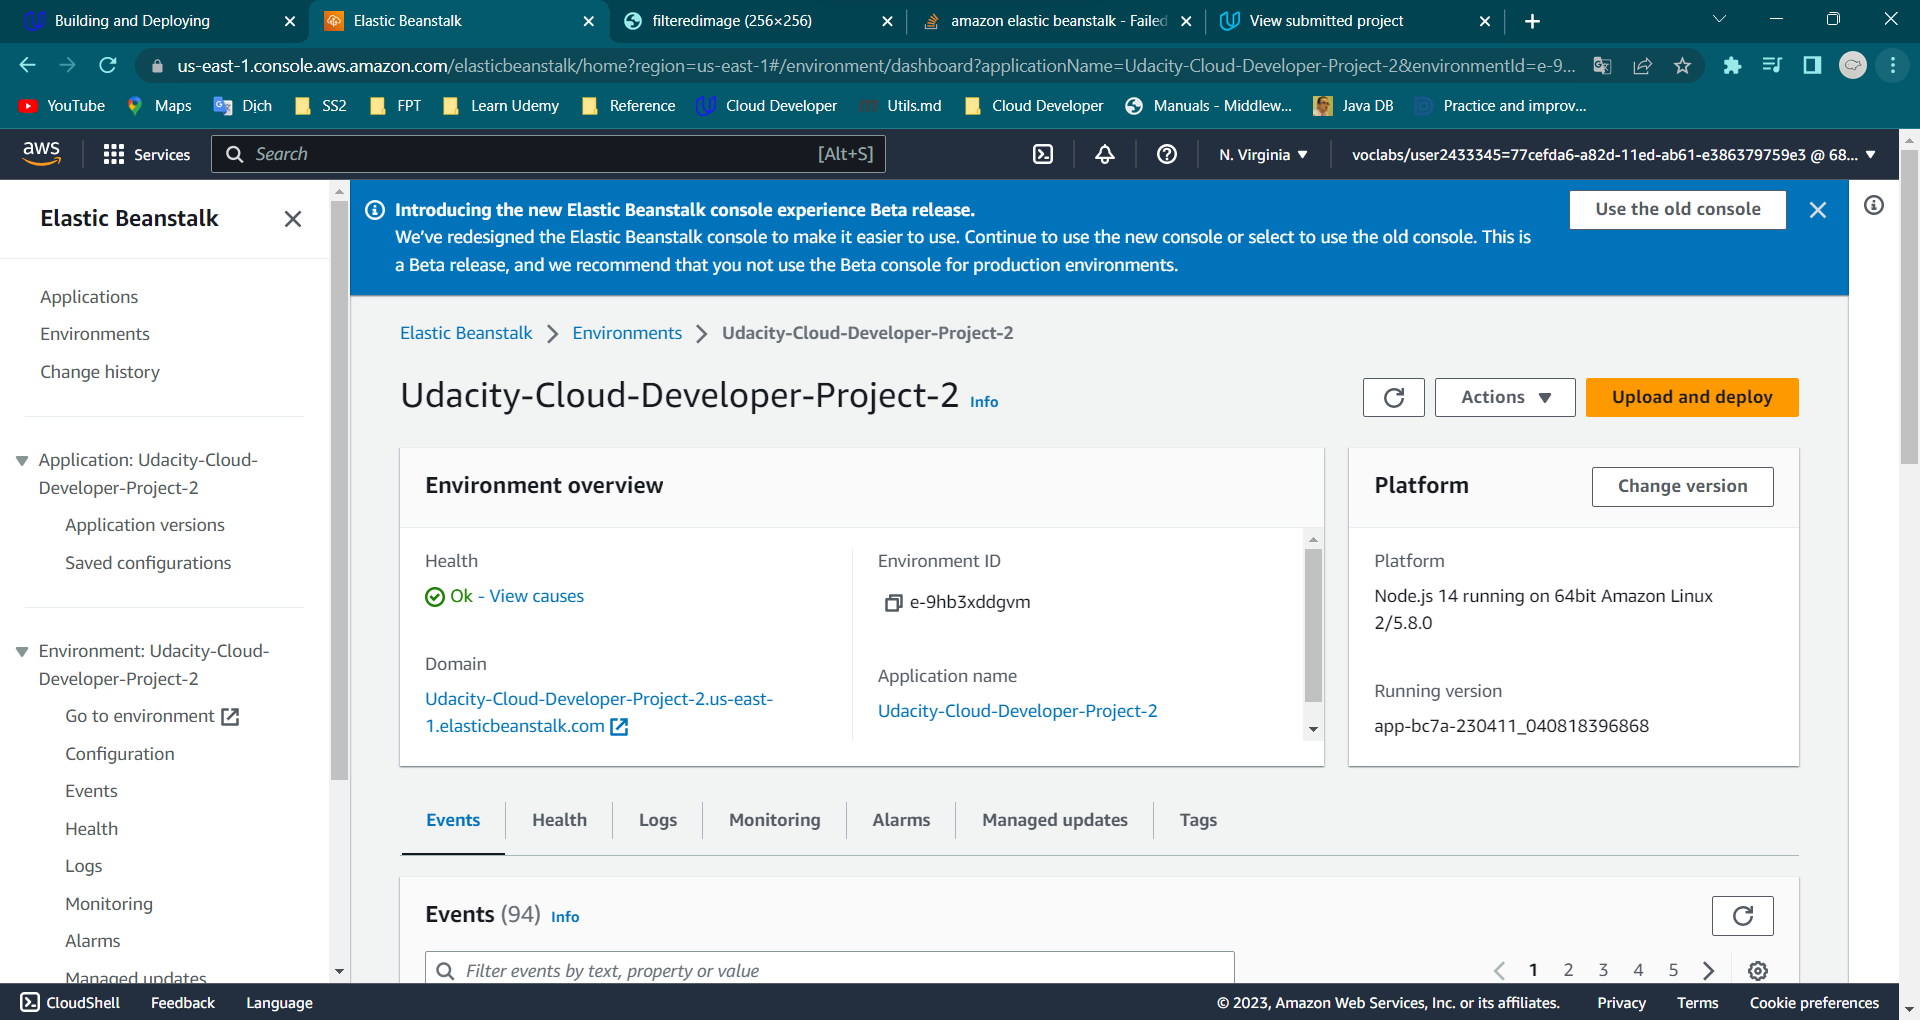
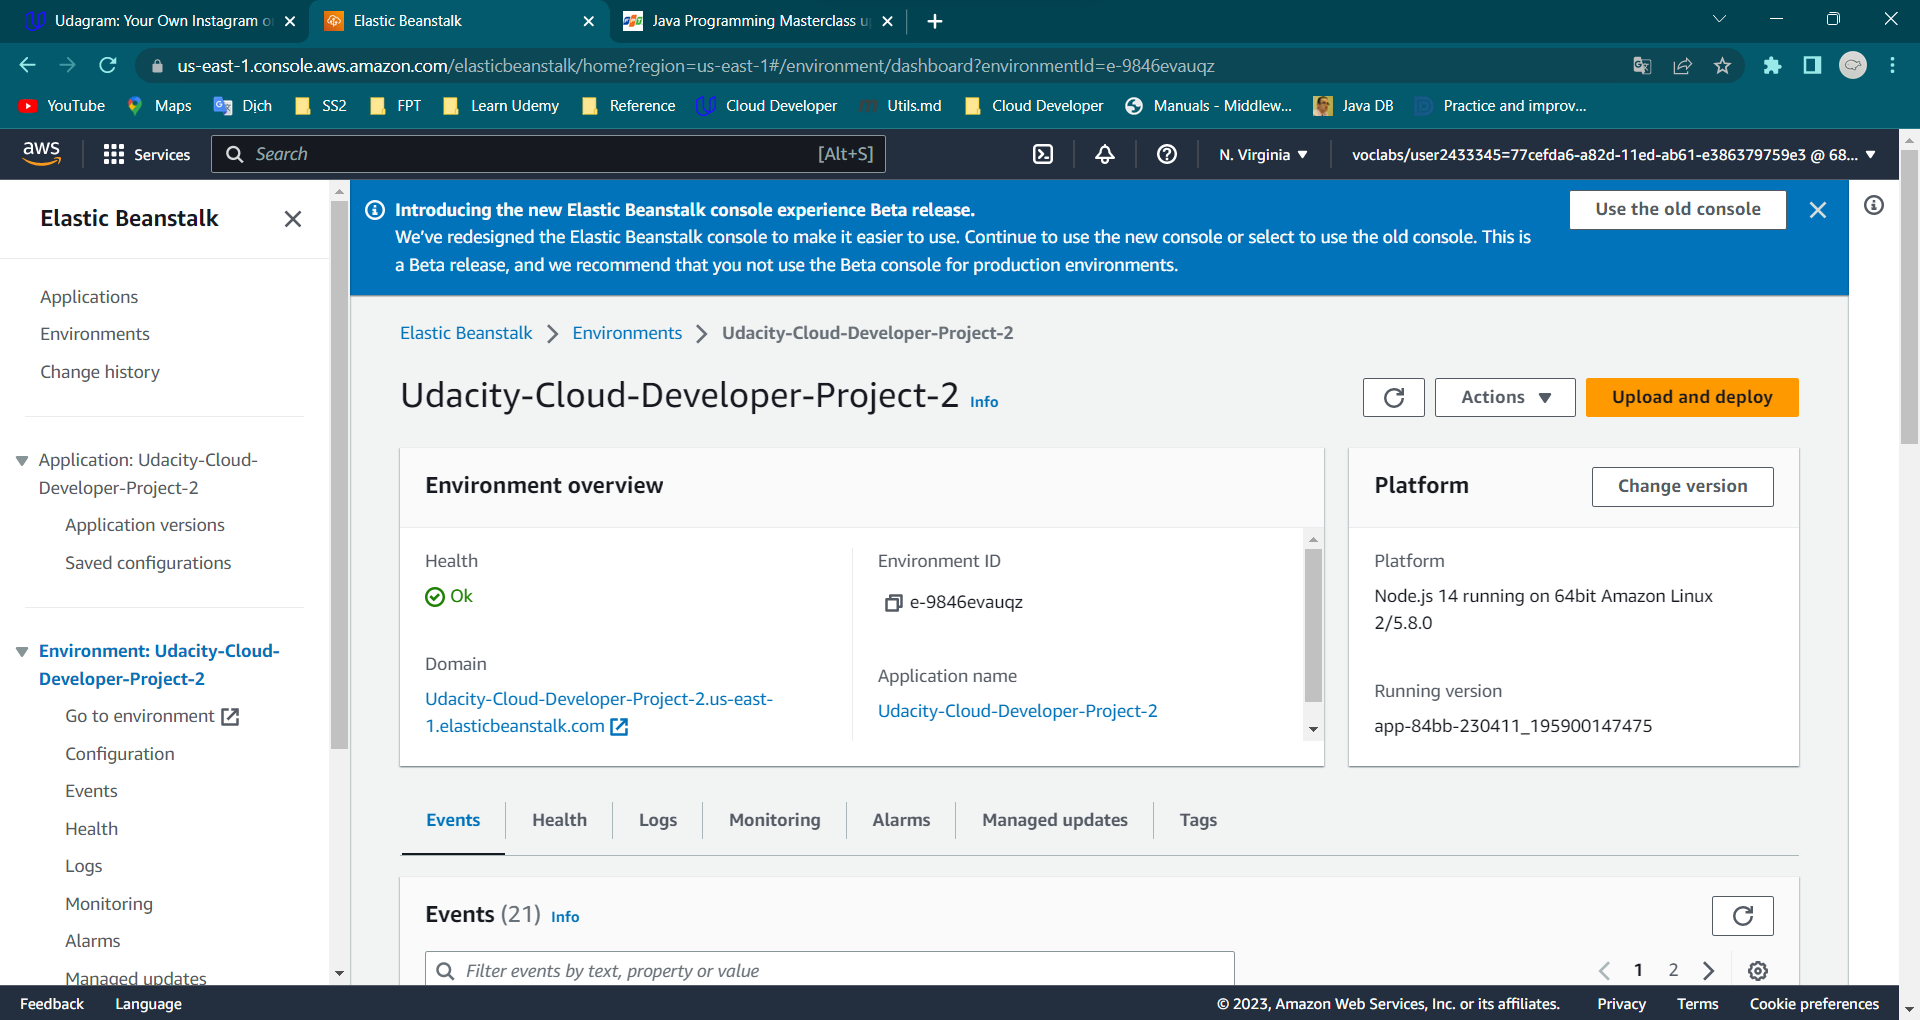
update deploy result

diff --git a/README.md b/README.md
@@ -1,8 +1,20 @@
 # Udagram Image Filtering
 
+## Link to my Elastic Beanstalk
+
+[http://udacity-cloud-developer-project-2.us-east-1.elasticbeanstalk.com/](http://udacity-cloud-developer-project-2.us-east-1.elasticbeanstalk.com/)
+
+### You can test with links
+
+Status 200: [http://udacity-cloud-developer-project-2.us-east-1.elasticbeanstalk.com/filteredimage?image_url=https://i.pinimg.com/736x/71/fe/83/71fe83b3f2423bb24a925ff72565fd0e.jpg](http://udacity-cloud-developer-project-2.us-east-1.elasticbeanstalk.com/filteredimage?image_url=https://i.pinimg.com/736x/71/fe/83/71fe83b3f2423bb24a925ff72565fd0e.jpg)
+
+Status 400: [http://udacity-cloud-developer-project-2.us-east-1.elasticbeanstalk.com/filteredimage?image_url[]=https://i.pinimg.com/736x/71/fe/83/71fe83b3f2423bb24a925ff72565fd0e.jpg](http://udacity-cloud-developer-project-2.us-east-1.elasticbeanstalk.com/filteredimage?image_url[]=https://i.pinimg.com/736x/71/fe/83/71fe83b3f2423bb24a925ff72565fd0e.jpg)
+
+Status 400: [http://udacity-cloud-developer-project-2.us-east-1.elasticbeanstalk.com/filteredimage](http://udacity-cloud-developer-project-2.us-east-1.elasticbeanstalk.com/)
+
 ## Github branch
 
-- [master](https://github.com/Iamtinyfish/Udacity-Cloud-Developer-Project-2/tree/dev)
+- [master](https://github.com/Iamtinyfish/Udacity-Cloud-Developer-Project-2/tree/master)
 - [dev](https://github.com/Iamtinyfish/Udacity-Cloud-Developer-Project-2/tree/dev)
 
 ## Run in local
